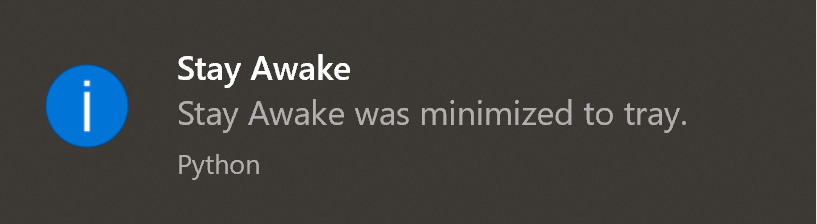
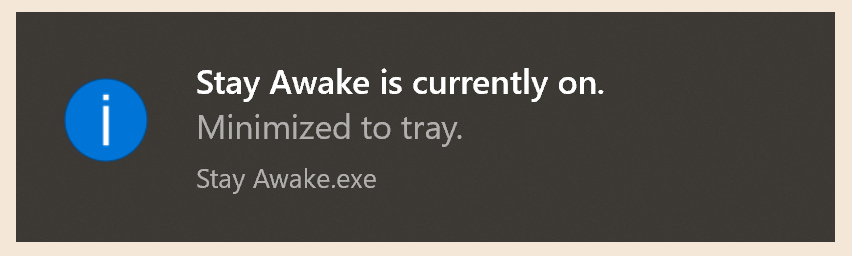
Enhanced UI, enhanced tray notification message, fixed open from tray, updated readme graphics
Changed "On/Off" button to "Start/Stop." Added "On/Off" status update in minimize to tray message. Opening from tray now opens in the foreground instead of minimized. Updated readme gif and jpg's

diff --git a/StayAwake/main.py b/StayAwake/main.py
@@ -36,12 +36,13 @@ class StayAwakeApp(QtWidgets.QMainWindow):
         super(StayAwakeApp, self).__init__()
         self.ui = StayAwake.Ui_MainWindow()
         self.ui.setupUi(self)
-        self.ui.label_2.setPixmap(QtGui.QPixmap(":icons/32x32.png"))    # set logo in app window (workaround for pyinstaller
+        self.ui.label_2.setPixmap(QtGui.QPixmap(":icons/32x32.png"))    # set logo in app window (workaround for pyinstaller)
         self.ui.toggle.clicked.connect(self.togglePressed)  # listener for when toggle button is pressed
 
         self.running = False  # flag to check if program is on or off
         self.preventSleep = None  # initializing to hold PreventSleep instance
         self.trayIcon = None  # initializing to hold tray icon instance
+        self.status = "off"
 
         self.setupTray()  # setup tray icon and menu
 
@@ -50,10 +51,11 @@ class StayAwakeApp(QtWidgets.QMainWindow):
     def setupTray(self):
         self.trayIcon = QSystemTrayIcon(self)  # instance of QSystemTrayIcon
         self.trayIcon.setIcon(QIcon(":icons/StayAwakeOpaque.ico"))  # set tray icon image
+        self.trayIcon.setToolTip("Stay Awake")
 
         openAction = QAction("Open", self)  # "open" right click option in tray
         quitAction = QAction("Quit", self)  # "quit" right click option in tray
-        openAction.triggered.connect(self.show)  # open app trigger
+        openAction.triggered.connect(self.showNormal)  # open app trigger
         quitAction.triggered.connect(qApp.quit)  # quit app trigger
         trayMenu = QMenu()  # QMenu class instance
         trayMenu.addAction(openAction)  # add open action
@@ -64,11 +66,13 @@ class StayAwakeApp(QtWidgets.QMainWindow):
     # handle toggle button states and calling prevent sleep
     def togglePressed(self):
         if self.running:
-            self.ui.toggle.setText("Off")  # set toggle button text to "Off"
+            self.ui.toggle.setText("Start")  # set toggle button text to "Off"
+            self.status = "off"
             self.running = False  # update state
             self.preventSleep.terminate()  # terminate prevent sleep thread
         else:
-            self.ui.toggle.setText("On")  # set toggle button text to "On"
+            self.ui.toggle.setText("Stop")  # set toggle button text to "On"
+            self.status = "on"
             self.running = True  # update state
             self.preventSleep = PreventSleep()  # create instance of PreventSleep class
             self.preventSleep.start()  # start prevent sleep thread
@@ -80,7 +84,7 @@ class StayAwakeApp(QtWidgets.QMainWindow):
                 event.ignore()  # ignore "minimize to taskbar" event
                 self.hide()  # hide the window
                 self.trayIcon.show()  # show tray icon
-                self.trayIcon.showMessage("Stay Awake", "Stay Awake was minimized to tray.",
+                self.trayIcon.showMessage("Stay Awake is currently " + self.status + ".", "Minimized to tray.",
                                           QSystemTrayIcon.Information)  # show tray message popup
 
 

diff --git a/StayAwake/StayAwake.py b/StayAwake/StayAwake.py
@@ -23,12 +23,24 @@ class Ui_MainWindow(object):
         MainWindow.setMinimumSize(QtCore.QSize(250, 100))
         MainWindow.setMaximumSize(QtCore.QSize(250, 100))
         MainWindow.setAutoFillBackground(False)
-        MainWindow.setStyleSheet("")
+        MainWindow.setStyleSheet("border-color: rgb(0, 255, 8);")
         self.centralwidget = QtWidgets.QWidget(MainWindow)
         self.centralwidget.setStyleSheet("")
         self.centralwidget.setObjectName("centralwidget")
         self.gridLayout = QtWidgets.QGridLayout(self.centralwidget)
         self.gridLayout.setObjectName("gridLayout")
+        self.label_2 = QtWidgets.QLabel(self.centralwidget)
+        self.label_2.setStyleSheet("")
+        self.label_2.setText("")
+        self.label_2.setAlignment(QtCore.Qt.AlignCenter)
+        self.label_2.setObjectName("label_2")
+        self.gridLayout.addWidget(self.label_2, 1, 0, 1, 1)
+        self.toggle = QtWidgets.QPushButton(self.centralwidget)
+        self.toggle.setStyleSheet("")
+        self.toggle.setCheckable(True)
+        self.toggle.setChecked(False)
+        self.toggle.setObjectName("toggle")
+        self.gridLayout.addWidget(self.toggle, 2, 0, 1, 3)
         self.label = QtWidgets.QLabel(self.centralwidget)
         font = QtGui.QFont()
         font.setPointSize(12)
@@ -40,18 +52,6 @@ class Ui_MainWindow(object):
         self.label.setAlignment(QtCore.Qt.AlignCenter)
         self.label.setObjectName("label")
         self.gridLayout.addWidget(self.label, 1, 1, 1, 1)
-        self.toggle = QtWidgets.QPushButton(self.centralwidget)
-        self.toggle.setStyleSheet("")
-        self.toggle.setCheckable(True)
-        self.toggle.setChecked(False)
-        self.toggle.setObjectName("toggle")
-        self.gridLayout.addWidget(self.toggle, 2, 0, 1, 3)
-        self.label_2 = QtWidgets.QLabel(self.centralwidget)
-        self.label_2.setStyleSheet("")
-        self.label_2.setText("")
-        self.label_2.setAlignment(QtCore.Qt.AlignCenter)
-        self.label_2.setObjectName("label_2")
-        self.gridLayout.addWidget(self.label_2, 1, 0, 1, 1)
         MainWindow.setCentralWidget(self.centralwidget)
 
         self.retranslateUi(MainWindow)
@@ -60,8 +60,8 @@ class Ui_MainWindow(object):
     def retranslateUi(self, MainWindow):
         _translate = QtCore.QCoreApplication.translate
         MainWindow.setWindowTitle(_translate("MainWindow", "Stay Awake"))
+        self.toggle.setText(_translate("MainWindow", "Start"))
         self.label.setText(_translate("MainWindow", "Stay Awake"))
-        self.toggle.setText(_translate("MainWindow", "Off"))
 
 
 if __name__ == "__main__":
